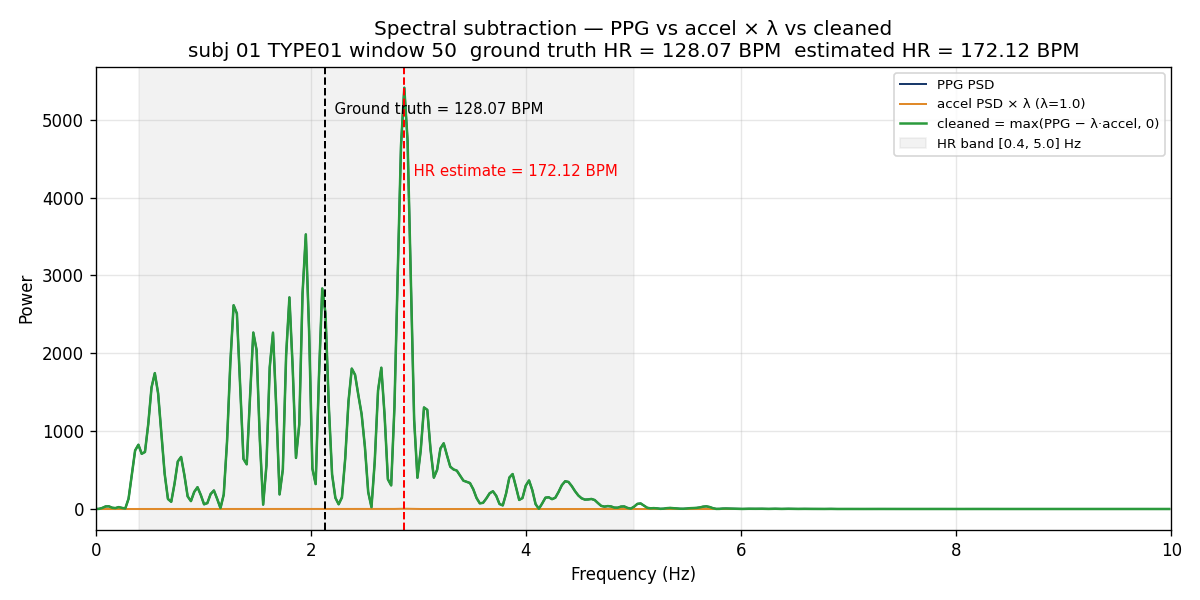
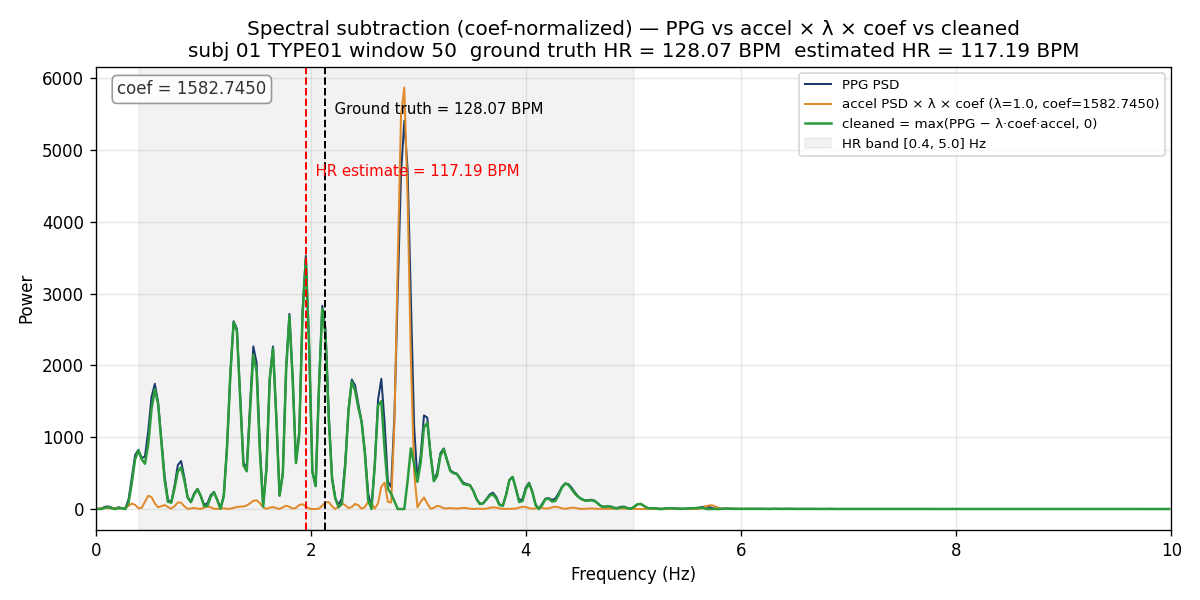
vault backup: 2026-05-23 01:13:39

diff --git a/MyBrain/projects/ece284-llm-ppg/code/02_troika_sanity_check.py b/MyBrain/projects/ece284-llm-ppg/code/02_troika_sanity_check.py
@@ -172,15 +172,16 @@ print(f"saved (b):  {fig_b_path}")
 # ===================================================================
 cleaned_power = debug["cleaned_power"]
 cleaned_plot = cleaned_power[plot_mask]
-accel_scaled_plot = LAM * accel_plot
+coef = debug["coef"]
+accel_scaled_plot = LAM * coef * accel_plot
 
 fig_c, ax_c = plt.subplots(figsize=(10, 5))
 ax_c.plot(freqs_plot, ppg_plot, color="#1a3a6b", linewidth=1.2,
           label="PPG PSD")
 ax_c.plot(freqs_plot, accel_scaled_plot, color="#e08a2a", linewidth=1.2,
-          label=f"accel PSD × λ (λ={LAM})")
+          label=f"accel PSD × λ × coef (λ={LAM}, coef={coef:.4f})")
 ax_c.plot(freqs_plot, cleaned_plot, color="#2a9a3c", linewidth=1.5,
-          label="cleaned = max(PPG − λ·accel, 0)")
+          label="cleaned = max(PPG − λ·coef·accel, 0)")
 
 # HR band shading
 ax_c.axvspan(HR_BAND_LOW, HR_BAND_HIGH, alpha=0.10, color="#888888",
@@ -201,11 +202,18 @@ if not np.isnan(hr_est):
               f"  HR estimate = {hr_est:.2f} BPM",
               color="red", fontsize=9, ha="left", va="top")
 
+# Coef annotation (top-left corner)
+ax_c.text(0.02, 0.97, f"coef = {coef:.4f}",
+          transform=ax_c.transAxes, fontsize=10, color="#333333",
+          ha="left", va="top",
+          bbox=dict(boxstyle="round,pad=0.3",
+                    facecolor="white", edgecolor="#888888", alpha=0.85))
+
 ax_c.set_xlabel("Frequency (Hz)")
 ax_c.set_ylabel("Power")
 ax_c.set_xlim(0, 10)
-ax_c.set_title(f"Spectral subtraction — PPG vs accel × λ vs cleaned\n"
-               f"{title_suffix}")
+ax_c.set_title(f"Spectral subtraction (coef-normalized) — "
+               f"PPG vs accel × λ × coef vs cleaned\n{title_suffix}")
 ax_c.legend(loc="upper right", fontsize=8)
 ax_c.grid(True, alpha=0.3)
 

diff --git a/MyBrain/projects/ece284-llm-ppg/code/troika_lite.py b/MyBrain/projects/ece284-llm-ppg/code/troika_lite.py
@@ -77,7 +77,20 @@ def estimate_hr_one_window(ppg_window, accel_xyz_window, fs=125, lam=1.0):
     _, accel_power = periodogram(accel_mag_filt, fs=fs, nfft=NFFT)
 
     # --- 4. Spectral subtraction + 5. Peak detection in HR band ---
-    cleaned_power = np.maximum(ppg_power - lam * accel_power, 0.0)
+    # HR 频段内 regression-based normalization
+    # coef 表示 "在 HR 频段内, PPG 频谱里 accel 能解释的耦合系数"
+    hr_band_mask_local = (freqs >= HR_BAND_LOW) & (freqs <= HR_BAND_HIGH)
+    ppg_hr = ppg_power[hr_band_mask_local]
+    accel_hr = accel_power[hr_band_mask_local]
+
+    accel_hr_sq_sum = float(np.sum(accel_hr ** 2))
+    if accel_hr_sq_sum < 1e-12:
+        # accel 在 HR 频段内几乎没能量 (静息窗口) → 无需 subtraction
+        coef = 0.0
+    else:
+        coef = float(np.sum(accel_hr * ppg_hr) / accel_hr_sq_sum)
+
+    cleaned_power = np.maximum(ppg_power - lam * coef * accel_power, 0.0)
 
     debug_dict = {
         "ppg_filt": ppg_filt,
@@ -86,6 +99,7 @@ def estimate_hr_one_window(ppg_window, accel_xyz_window, fs=125, lam=1.0):
         "ppg_power": ppg_power,
         "accel_power": accel_power,
         "cleaned_power": cleaned_power,
+        "coef": coef,
         "peak_freq": None,
     }
 
